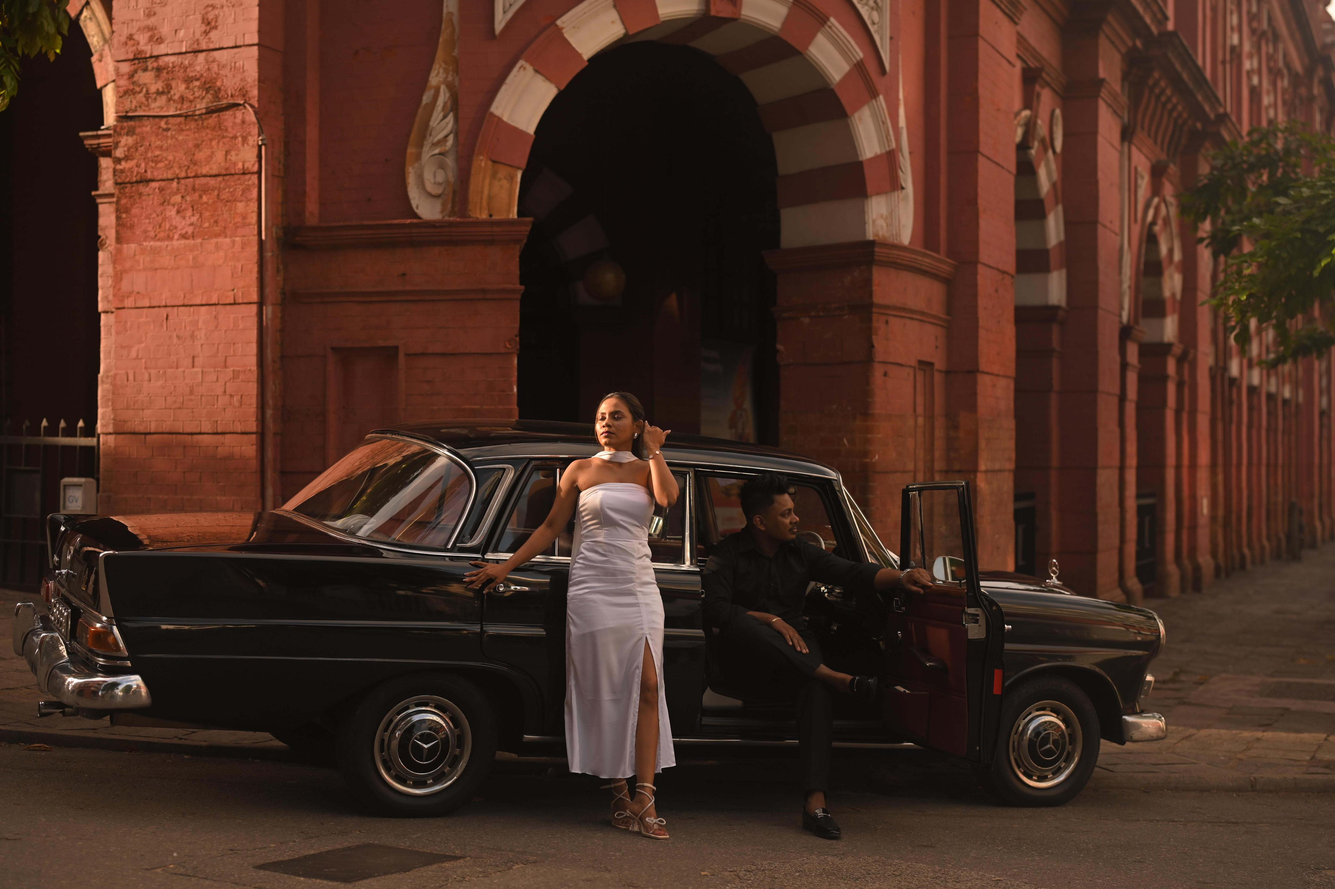
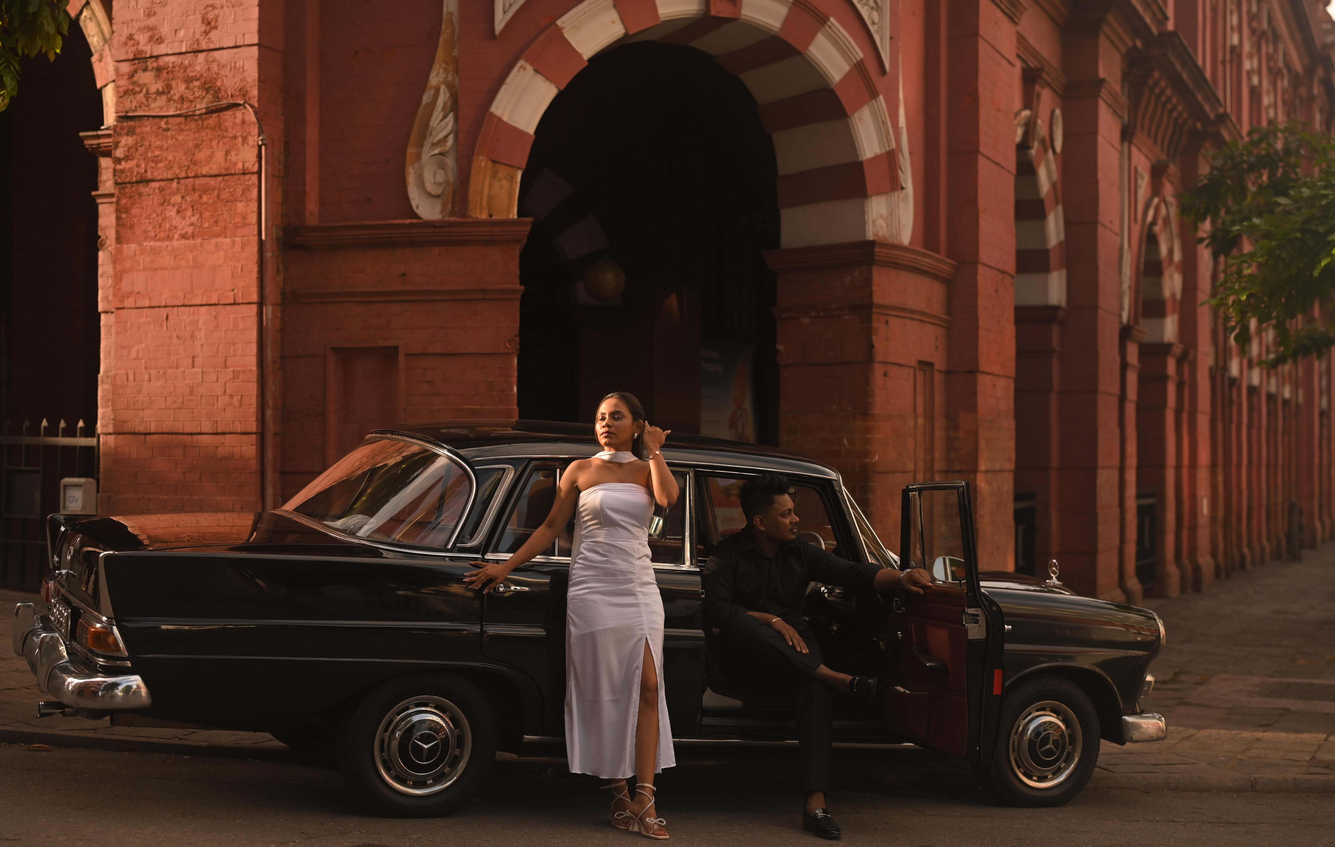
Refactor code structure for improved readability and maintainability

diff --git a/components/hero-section.tsx b/components/hero-section.tsx
@@ -28,7 +28,7 @@ export function HeroSection() {
         </motion.div>
 
         {/* Text overlay content */}
-        <div className="relative z-10 text-center text-white mt-4 sm:mt-6 md:mt-10 lg:mt-16 px-3 sm:px-4 md:px-6">
+        <div className="relative z-10 text-center text-white mt-4 sm:mt-6 px-3 sm:px-4 md:px-6">
           {/* Couple names in elegant script */}
           <div
             className="text-5xl sm:text-7xl md:text-8xl lg:text-9xl xl:text-[6rem] font-great-vibes mb-2 sm:mb-3 md:mb-4 text-white"
@@ -53,13 +53,14 @@ export function HeroSection() {
                 ease: "easeInOut",
                 filter: { duration: 1.5 },
               }}
-              className="flex justify-center items-center"
+              className="flex justify-center items-center mb-4 sm:mb-6 md:mb-8"
             >
               <Image
                 src="/DH.png"
                 alt="Dilum and Heshani"
-                width={120}
+                width={100}
                 height={50}
+                className="mx-2 sm:mx-4 w-15 md:w-20"
               />
             </motion.div>
             <motion.p
@@ -99,7 +100,7 @@ export function HeroSection() {
               ease: "easeInOut",
               filter: { duration: 2 },
             }}
-            className="text-lg sm:text-2xl md:text-3xl lg:text-4xl xl:text-5xl font-montserrat text-white uppercase tracking-widest font-extrabold mb-2"
+            className="text-base sm:text-xl md:text-3xl lg:text-3xl xl:text-4xl font-montserrat text-white uppercase tracking-widest font-extrabold mb-2"
             style={{
               textShadow:
                 "1px 1px 3px rgba(0,0,0,0.6), 2px 2px 6px rgba(0,0,0,0.4)",

diff --git a/components/envelope-card.tsx b/components/envelope-card.tsx
@@ -2,14 +2,28 @@ import Image from "next/image";
 
 export function EnvelopeCard() {
   return (
-    <>
+    <div className="relative w-full">
+      {/* Invitation text overlay */}
+      <div className="absolute top-8 left-1/2 transform -translate-x-1/2 z-10 text-center px-4 sm:px-6 md:px-8 max-w-2xl">
+        <div className="bg-white/90 backdrop-blur-sm rounded-lg p-6 sm:p-8 md:p-10 shadow-lg border border-gray-200">
+          <p className="font-great-vibes text-2xl sm:text-3xl md:text-4xl text-gray-800 leading-relaxed mb-4">
+            With hearts full of love, we joyfully invite you to share in the
+            celebration of our forever.
+          </p>
+          <p className="font-montserrat text-sm sm:text-base md:text-lg text-gray-700 font-medium italic">
+            Your presence will add joy and meaning to our special day.
+          </p>
+        </div>
+      </div>
+
+      {/* Envelope image */}
       <Image
-        src="/invitation.png"
+        src="/invitation.jpg"
         alt="Envelope"
-        width={1200}
+        width={800}
         height={300}
-        className="mx-auto w-full h-auto object-contain"
+        className="mx-auto w-full h-auto lg:h-screen object-contain"
       />
-    </>
+    </div>
   );
 }
